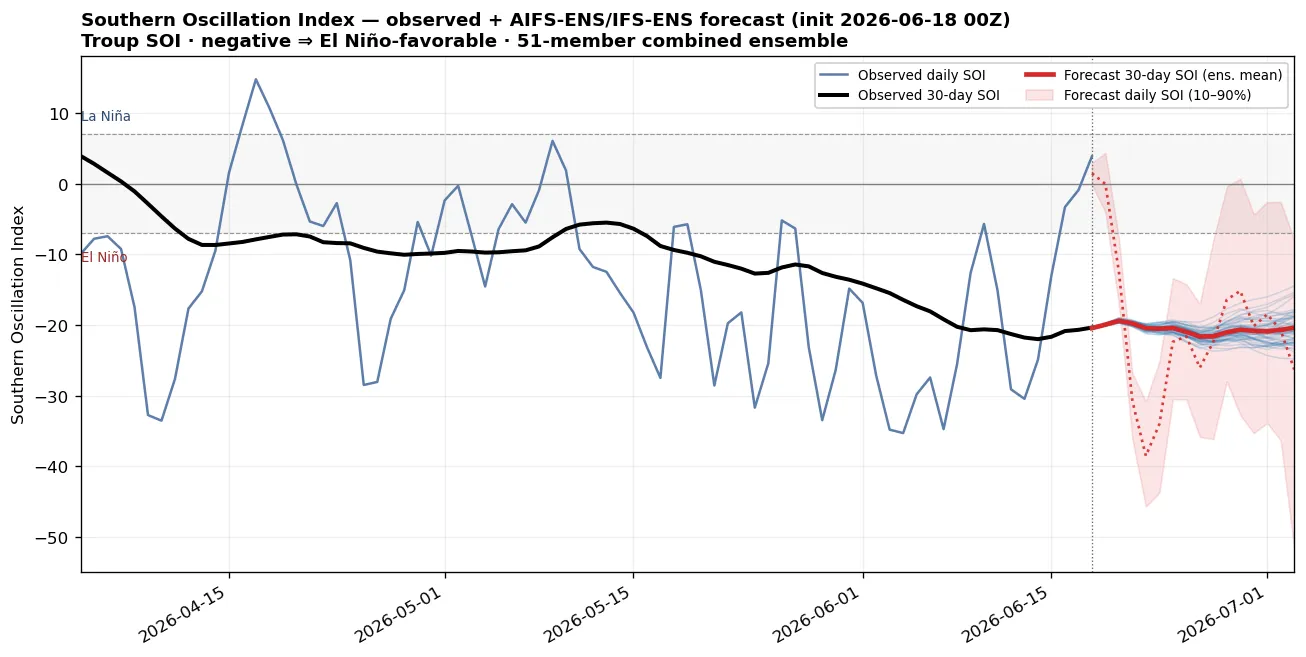
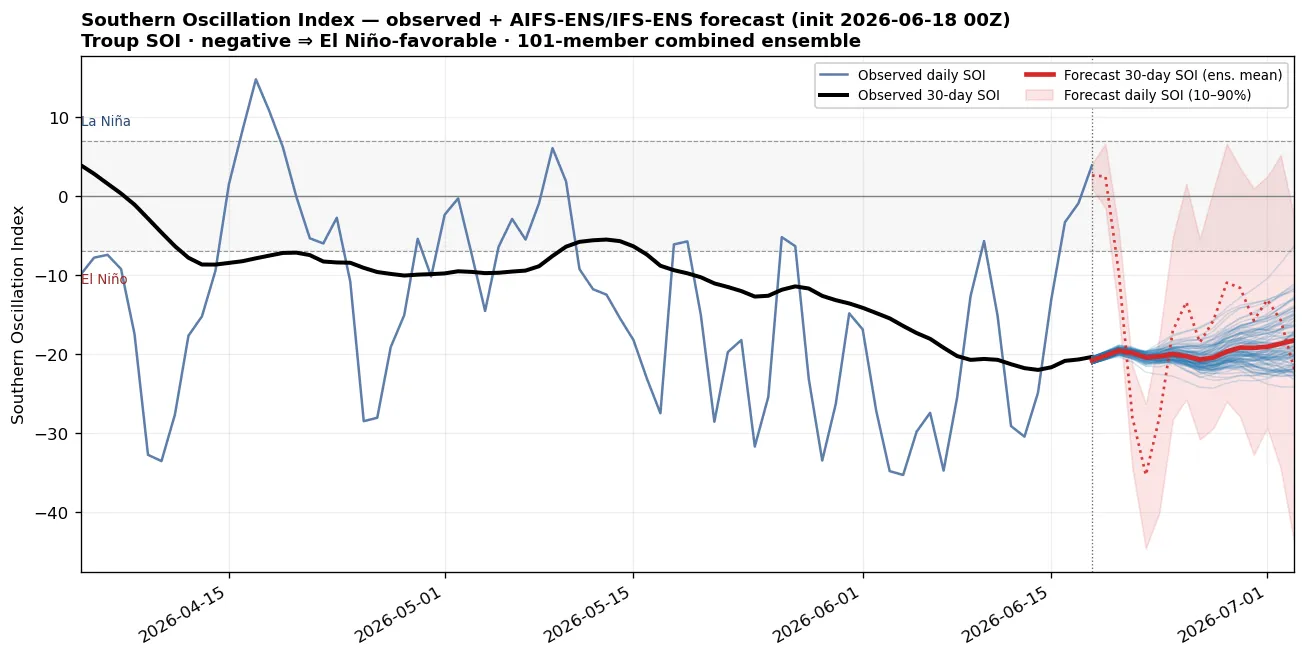
Hovmöller + SOI: backfill IFS-ENS leg for 20260618_00z (rendered AIFS-only on the first pass before IFS published)

diff --git a/enso-analogs.html b/enso-analogs.html
@@ -262,7 +262,7 @@
         <h2>This Event vs. 1997, 2015 &amp; 2023</h2>
         <p>Niño-3.4 evolution (7-day running mean) through each event's development year and the next. Bold lines are <b>RONI</b> &mdash; the relative index (Niño-3.4 minus the 20&deg;S&ndash;20&deg;N tropical-mean anomaly), which removes the rising warming background so events decades apart are comparable; faint dotted lines are the raw <b>ONI</b> for reference. The current event is red. Note how 2015's record ONI shrinks toward 1997 once the background is removed.</p>
       </div>
-      <div class="img-wrap"><img src="assets/sst/events_nino34.webp?v=0e5e12107f0c" alt="Niño-3.4 RONI vs ONI evolution: current event vs 1997/2015/2023" loading="lazy"></div>
+      <div class="img-wrap"><img src="assets/sst/events_nino34.webp?v=12e0d3b5a5fb" alt="Niño-3.4 RONI vs ONI evolution: current event vs 1997/2015/2023" loading="lazy"></div>
       <div class="chart-card-footer"><span class="chart-sources">OISST v2.1 daily &middot; 7-day mean &middot; RONI = Niño-3.4 &minus; 20&deg;S&ndash;20&deg;N mean</span></div>
     </div>
 
@@ -272,7 +272,7 @@
         <h2>El Niño Flavor &mdash; Niño Regions vs. Analogs</h2>
         <p>Relative Niño-1+2 / 3 / 3.4 / 4 anomalies (7-day mean, each minus the 20&deg;S&ndash;20&deg;N tropical mean) at the same calendar day as the latest data, for the current event and the three analogs. Removing the tropical background makes the regions comparable across events; strong eastern (1+2, 3) relative to central (4) marks an East-Pacific-flavored event.</p>
       </div>
-      <div class="img-wrap"><img src="assets/sst/events_bars.webp?v=0e5e12107f0c" alt="Relative Niño-region anomalies, current event vs analogs" loading="lazy"></div>
+      <div class="img-wrap"><img src="assets/sst/events_bars.webp?v=12e0d3b5a5fb" alt="Relative Niño-region anomalies, current event vs analogs" loading="lazy"></div>
       <div class="chart-card-footer"><span class="chart-sources">OISST v2.1 daily &middot; 7-day mean &middot; relative to 20&deg;S&ndash;20&deg;N mean</span></div>
     </div>
 
@@ -282,7 +282,7 @@
         <h2>Matching-Phase SST Anomaly Maps</h2>
         <p>Relative SST anomaly &mdash; the area-weighted global-mean anomaly removed from each map &mdash; for the latest available week vs. the same calendar week in 1997, 2015 and 2023. Stripping the global mean removes the secular warming trend, so the ENSO spatial pattern is comparable across events that sat on very different baselines.</p>
       </div>
-      <div class="img-wrap"><img src="assets/sst/events_maps.webp?v=0e5e12107f0c" alt="Matching-phase relative SST anomaly maps (global-mean removed)" loading="lazy"></div>
+      <div class="img-wrap"><img src="assets/sst/events_maps.webp?v=12e0d3b5a5fb" alt="Matching-phase relative SST anomaly maps (global-mean removed)" loading="lazy"></div>
       <div class="chart-card-footer"><span class="chart-sources">OISST v2.1 daily &middot; 7-day mean &middot; global-mean removed</span></div>
     </div>
 
@@ -292,7 +292,7 @@
         <h2>Subsurface Heat Content vs. Analogs</h2>
         <p>Equatorial Pacific upper-ocean (0&ndash;300 m) temperature anomaly &mdash; a heat-content proxy that leads the surface &mdash; through each event's development year and the next, current (bold red) overlaid on 1997, 2015 and 2023. The subsurface warm reservoir is the fuel for El Ni&ntilde;o; watch whether the current build-up keeps pace with the analogs.</p>
       </div>
-      <div class="img-wrap"><img src="assets/sst/subsurface_events_hc.webp?v=0e5e12107f0c" alt="Equatorial 0–300 m temperature-anomaly evolution: current vs 1997/2015/2023" loading="lazy"></div>
+      <div class="img-wrap"><img src="assets/sst/subsurface_events_hc.webp?v=12e0d3b5a5fb" alt="Equatorial 0–300 m temperature-anomaly evolution: current vs 1997/2015/2023" loading="lazy"></div>
       <div class="chart-card-footer"><span class="chart-sources">NOAA/PMEL TAO/TRITON moorings &middot; anomaly vs 1991&ndash;2020 &middot; coverage varies by year</span></div>
     </div>
 
@@ -302,7 +302,7 @@
         <h2>Subsurface Heat Content vs. Analogs &mdash; De-trended</h2>
         <p>The same heat-content comparison with the 1991&ndash;2020 climate trend removed, so the four events sit on a common baseline. The net 0&ndash;300 m effect is modest &mdash; the subsurface warming and cooling trends largely cancel in the column average &mdash; but it eases the recent events (2023, current) down relative to 1997.</p>
       </div>
-      <div class="img-wrap"><img src="assets/sst/subsurface_events_hc_detrended.webp?v=0e5e12107f0c" alt="Equatorial 0–300 m temperature-anomaly evolution, climate trend removed: current vs 1997/2015/2023" loading="lazy"></div>
+      <div class="img-wrap"><img src="assets/sst/subsurface_events_hc_detrended.webp?v=12e0d3b5a5fb" alt="Equatorial 0–300 m temperature-anomaly evolution, climate trend removed: current vs 1997/2015/2023" loading="lazy"></div>
       <div class="chart-card-footer"><span class="chart-sources">NOAA/PMEL TAO/TRITON moorings &middot; de-trended 1991&ndash;2020 &middot; coverage varies by year</span></div>
     </div>
 
@@ -313,7 +313,7 @@
         <p>Equatorial depth&times;longitude temperature anomaly at the same phase (~the latest data week) of each event. The eastward-deepening warm anomaly along the thermocline is the classic El Ni&ntilde;o subsurface signature; comparing its depth and intensity against 1997/2015/2023 gauges how loaded the ocean is now.</p>
         <p><b>Note:</b> TAO mooring coverage varies by year (triangles mark moorings reporting), so 1997 and 2023 have missing longitudes.</p>
       </div>
-      <div class="img-wrap"><img src="assets/sst/subsurface_events_xsec.webp?v=0e5e12107f0c" alt="Equatorial subsurface temperature-anomaly cross-sections: current vs 1997/2015/2023" loading="lazy"></div>
+      <div class="img-wrap"><img src="assets/sst/subsurface_events_xsec.webp?v=12e0d3b5a5fb" alt="Equatorial subsurface temperature-anomaly cross-sections: current vs 1997/2015/2023" loading="lazy"></div>
       <div class="chart-card-footer"><span class="chart-sources">NOAA/PMEL TAO/TRITON moorings &middot; anomaly vs 1991&ndash;2020 &middot; 14-day mean &middot; coverage varies by year</span></div>
     </div>
 
@@ -324,7 +324,7 @@
         <p>The matching-phase cross-sections with the 1991&ndash;2020 climate trend removed. Because the trend has real depth&times;longitude structure &mdash; west-Pacific subsurface warming, eastern-thermocline cooling &mdash; de-trending reshapes the pattern more here than in the column-mean heat content above.</p>
         <p><b>Note:</b> TAO mooring coverage varies by year (triangles mark moorings reporting), so 1997 and 2023 have missing longitudes.</p>
       </div>
-      <div class="img-wrap"><img src="assets/sst/subsurface_events_xsec_detrended.webp?v=0e5e12107f0c" alt="Equatorial subsurface temperature-anomaly cross-sections, climate trend removed: current vs 1997/2015/2023" loading="lazy"></div>
+      <div class="img-wrap"><img src="assets/sst/subsurface_events_xsec_detrended.webp?v=12e0d3b5a5fb" alt="Equatorial subsurface temperature-anomaly cross-sections, climate trend removed: current vs 1997/2015/2023" loading="lazy"></div>
       <div class="chart-card-footer"><span class="chart-sources">NOAA/PMEL TAO/TRITON moorings &middot; de-trended 1991&ndash;2020 &middot; 14-day mean &middot; coverage varies by year</span></div>
     </div>
 
@@ -334,8 +334,8 @@
         <h2>Low-Level Wind vs. Analogs &mdash; 850 hPa Hovm&ouml;ller</h2>
         <p>Equatorial (5&deg;S&ndash;5&deg;N) 850 hPa zonal wind through the <b>developing year</b> (Jan&rarr;Nov of year 0) of each El Ni&ntilde;o, aligned by calendar so the current event sits beside its analogs at the same phase. Westerly anomalies (red) over the Indian Ocean&ndash;west Pacific push warm water east and sustain a developing event; the historical analogs show those westerlies expanding eastward through the year. Left: detrended anomaly (long-term trend removed). Right: absolute wind (easterly trades vs. westerly bursts). 5-day smoothed.</p>
       </div>
-      <div class="img-wrap"><img src="assets/sst/u850_analogs_anom.webp?v=0e5e12107f0c" alt="850 hPa equatorial zonal-wind detrended-anomaly Hovmöllers: current 2026 vs 1982/1997/2015 developing years" loading="lazy"></div>
-      <div class="img-wrap"><img src="assets/sst/u850_analogs_abs.webp?v=0e5e12107f0c" alt="850 hPa equatorial zonal-wind absolute Hovmöllers: current 2026 vs 1982/1997/2015 developing years" loading="lazy"></div>
+      <div class="img-wrap"><img src="assets/sst/u850_analogs_anom.webp?v=12e0d3b5a5fb" alt="850 hPa equatorial zonal-wind detrended-anomaly Hovmöllers: current 2026 vs 1982/1997/2015 developing years" loading="lazy"></div>
+      <div class="img-wrap"><img src="assets/sst/u850_analogs_abs.webp?v=12e0d3b5a5fb" alt="850 hPa equatorial zonal-wind absolute Hovmöllers: current 2026 vs 1982/1997/2015 developing years" loading="lazy"></div>
       <div class="chart-card-footer"><span class="chart-sources">ERA5 &mdash; WeatherBench2 1.5&deg; (1959&ndash;2023) + ARCO 0.25&deg; (current year) &middot; 5&deg;S&ndash;5&deg;N &middot; detrended vs day-of-year climatology &middot; updated daily</span></div>
     </div>
 
@@ -349,37 +349,37 @@
 
     <div class="chart-card">
       <div class="chart-card-header"><h2>Houston &amp; Dallas</h2></div>
-      <div class="img-wrap"><img src="assets/sst/citytemp/citytemp_houston.webp?v=0e5e12107f0c" alt="Houston daily temperature across super-El-Niño years vs 2026" loading="lazy"></div>
-      <div class="img-wrap"><img src="assets/sst/citytemp/citytemp_anom_houston.webp?v=0e5e12107f0c" alt="Houston detrended temperature anomaly across super-El-Niño years vs 2026" loading="lazy"></div>
-      <div class="img-wrap"><img src="assets/sst/citytemp/citytemp_dallas.webp?v=0e5e12107f0c" alt="Dallas daily temperature across super-El-Niño years vs 2026" loading="lazy"></div>
-      <div class="img-wrap"><img src="assets/sst/citytemp/citytemp_anom_dallas.webp?v=0e5e12107f0c" alt="Dallas detrended temperature anomaly across super-El-Niño years vs 2026" loading="lazy"></div>
+      <div class="img-wrap"><img src="assets/sst/citytemp/citytemp_houston.webp?v=12e0d3b5a5fb" alt="Houston daily temperature across super-El-Niño years vs 2026" loading="lazy"></div>
+      <div class="img-wrap"><img src="assets/sst/citytemp/citytemp_anom_houston.webp?v=12e0d3b5a5fb" alt="Houston detrended temperature anomaly across super-El-Niño years vs 2026" loading="lazy"></div>
+      <div class="img-wrap"><img src="assets/sst/citytemp/citytemp_dallas.webp?v=12e0d3b5a5fb" alt="Dallas daily temperature across super-El-Niño years vs 2026" loading="lazy"></div>
+      <div class="img-wrap"><img src="assets/sst/citytemp/citytemp_anom_dallas.webp?v=12e0d3b5a5fb" alt="Dallas detrended temperature anomaly across super-El-Niño years vs 2026" loading="lazy"></div>
       <div class="chart-card-footer"><span class="chart-sources">IEM ASOS (IAH, DFW) &middot; daily high&ndash;low from hourly obs &middot; anomaly detrended vs trend-adjusted 1973&ndash;present normal</span></div>
     </div>
 
     <div class="chart-card">
       <div class="chart-card-header"><h2>Phoenix &amp; Washington, DC</h2></div>
-      <div class="img-wrap"><img src="assets/sst/citytemp/citytemp_phoenix.webp?v=0e5e12107f0c" alt="Phoenix daily temperature across super-El-Niño years vs 2026" loading="lazy"></div>
-      <div class="img-wrap"><img src="assets/sst/citytemp/citytemp_anom_phoenix.webp?v=0e5e12107f0c" alt="Phoenix detrended temperature anomaly across super-El-Niño years vs 2026" loading="lazy"></div>
-      <div class="img-wrap"><img src="assets/sst/citytemp/citytemp_washington_dc.webp?v=0e5e12107f0c" alt="Washington DC daily temperature across super-El-Niño years vs 2026" loading="lazy"></div>
-      <div class="img-wrap"><img src="assets/sst/citytemp/citytemp_anom_washington_dc.webp?v=0e5e12107f0c" alt="Washington DC detrended temperature anomaly across super-El-Niño years vs 2026" loading="lazy"></div>
+      <div class="img-wrap"><img src="assets/sst/citytemp/citytemp_phoenix.webp?v=12e0d3b5a5fb" alt="Phoenix daily temperature across super-El-Niño years vs 2026" loading="lazy"></div>
+      <div class="img-wrap"><img src="assets/sst/citytemp/citytemp_anom_phoenix.webp?v=12e0d3b5a5fb" alt="Phoenix detrended temperature anomaly across super-El-Niño years vs 2026" loading="lazy"></div>
+      <div class="img-wrap"><img src="assets/sst/citytemp/citytemp_washington_dc.webp?v=12e0d3b5a5fb" alt="Washington DC daily temperature across super-El-Niño years vs 2026" loading="lazy"></div>
+      <div class="img-wrap"><img src="assets/sst/citytemp/citytemp_anom_washington_dc.webp?v=12e0d3b5a5fb" alt="Washington DC detrended temperature anomaly across super-El-Niño years vs 2026" loading="lazy"></div>
       <div class="chart-card-footer"><span class="chart-sources">IEM ASOS (PHX, DCA) &middot; daily high&ndash;low from hourly obs &middot; anomaly detrended vs trend-adjusted 1973&ndash;present normal</span></div>
     </div>
 
     <div class="chart-card">
       <div class="chart-card-header"><h2>New York City &amp; Boston</h2></div>
-      <div class="img-wrap"><img src="assets/sst/citytemp/citytemp_new_york_city.webp?v=0e5e12107f0c" alt="New York City daily temperature across super-El-Niño years vs 2026" loading="lazy"></div>
-      <div class="img-wrap"><img src="assets/sst/citytemp/citytemp_anom_new_york_city.webp?v=0e5e12107f0c" alt="New York City detrended temperature anomaly across super-El-Niño years vs 2026" loading="lazy"></div>
-      <div class="img-wrap"><img src="assets/sst/citytemp/citytemp_boston.webp?v=0e5e12107f0c" alt="Boston daily temperature across super-El-Niño years vs 2026" loading="lazy"></div>
-      <div class="img-wrap"><img src="assets/sst/citytemp/citytemp_anom_boston.webp?v=0e5e12107f0c" alt="Boston detrended temperature anomaly across super-El-Niño years vs 2026" loading="lazy"></div>
+      <div class="img-wrap"><img src="assets/sst/citytemp/citytemp_new_york_city.webp?v=12e0d3b5a5fb" alt="New York City daily temperature across super-El-Niño years vs 2026" loading="lazy"></div>
+      <div class="img-wrap"><img src="assets/sst/citytemp/citytemp_anom_new_york_city.webp?v=12e0d3b5a5fb" alt="New York City detrended temperature anomaly across super-El-Niño years vs 2026" loading="lazy"></div>
+      <div class="img-wrap"><img src="assets/sst/citytemp/citytemp_boston.webp?v=12e0d3b5a5fb" alt="Boston daily temperature across super-El-Niño years vs 2026" loading="lazy"></div>
+      <div class="img-wrap"><img src="assets/sst/citytemp/citytemp_anom_boston.webp?v=12e0d3b5a5fb" alt="Boston detrended temperature anomaly across super-El-Niño years vs 2026" loading="lazy"></div>
       <div class="chart-card-footer"><span class="chart-sources">IEM ASOS (LGA, BOS) &middot; daily high&ndash;low from hourly obs &middot; anomaly detrended vs trend-adjusted 1973&ndash;present normal</span></div>
     </div>
 
     <div class="chart-card">
       <div class="chart-card-header"><h2>Portland &amp; Seattle</h2></div>
-      <div class="img-wrap"><img src="assets/sst/citytemp/citytemp_portland_or.webp?v=0e5e12107f0c" alt="Portland OR daily temperature across super-El-Niño years vs 2026" loading="lazy"></div>
-      <div class="img-wrap"><img src="assets/sst/citytemp/citytemp_anom_portland_or.webp?v=0e5e12107f0c" alt="Portland OR detrended temperature anomaly across super-El-Niño years vs 2026" loading="lazy"></div>
-      <div class="img-wrap"><img src="assets/sst/citytemp/citytemp_seattle.webp?v=0e5e12107f0c" alt="Seattle daily temperature across super-El-Niño years vs 2026" loading="lazy"></div>
-      <div class="img-wrap"><img src="assets/sst/citytemp/citytemp_anom_seattle.webp?v=0e5e12107f0c" alt="Seattle detrended temperature anomaly across super-El-Niño years vs 2026" loading="lazy"></div>
+      <div class="img-wrap"><img src="assets/sst/citytemp/citytemp_portland_or.webp?v=12e0d3b5a5fb" alt="Portland OR daily temperature across super-El-Niño years vs 2026" loading="lazy"></div>
+      <div class="img-wrap"><img src="assets/sst/citytemp/citytemp_anom_portland_or.webp?v=12e0d3b5a5fb" alt="Portland OR detrended temperature anomaly across super-El-Niño years vs 2026" loading="lazy"></div>
+      <div class="img-wrap"><img src="assets/sst/citytemp/citytemp_seattle.webp?v=12e0d3b5a5fb" alt="Seattle daily temperature across super-El-Niño years vs 2026" loading="lazy"></div>
+      <div class="img-wrap"><img src="assets/sst/citytemp/citytemp_anom_seattle.webp?v=12e0d3b5a5fb" alt="Seattle detrended temperature anomaly across super-El-Niño years vs 2026" loading="lazy"></div>
       <div class="chart-card-footer"><span class="chart-sources">IEM ASOS (PDX, SEA) &middot; daily high&ndash;low from hourly obs &middot; anomaly detrended vs trend-adjusted 1973&ndash;present normal</span></div>
     </div>
 

diff --git a/enso-atmosphere.html b/enso-atmosphere.html
@@ -323,7 +323,7 @@
         <p>Forecast 10 m zonal-wind anomaly (5&deg;S&ndash;5&deg;N), longitude &times; forecast day, from the AIFS-ENS (AI) and ECMWF IFS-ENS (physics) ensemble means vs. the ERA5 1991&ndash;2020 climatology.</p>
         <p><b>What to look for:</b> Westerly (red) anomalies along the equator push warm water eastward and favor El Ni&ntilde;o development; easterly (blue) anomalies favor La Ni&ntilde;a. Agreement between the AI and physics ensembles raises confidence.</p>
       </div>
-      <div class="img-wrap"><img src="assets/sst/eq_wind_hovmoller.webp?v=0e5e12107f0c" alt="Equatorial Pacific 10 m zonal-wind anomaly Hovmöller forecast (AIFS-ENS and IFS-ENS)" loading="lazy"></div>
+      <div class="img-wrap"><img src="assets/sst/eq_wind_hovmoller.webp?v=12e0d3b5a5fb" alt="Equatorial Pacific 10 m zonal-wind anomaly Hovmöller forecast (AIFS-ENS and IFS-ENS)" loading="lazy"></div>
       <div class="chart-card-footer"><span class="chart-sources">ECMWF AIFS-ENS &amp; IFS-ENS (open data) &middot; anomaly vs ERA5 1991&ndash;2020 &middot; updated each 00/12Z cycle</span></div>
     </div>
 
@@ -347,7 +347,7 @@
         <p><b>How to read it:</b> <i>top</i> &mdash; this year's observed AAM (black) and the 15-day forecast (red) on the climatological annual cycle. The hemispheres are strongly out of phase (each peaks in its own winter), so much of the absolute rise/fall is just the season. <i>Bottom</i> &mdash; the anomaly (departure from the 1991&ndash;2020 normal), which removes the seasonal cycle, with a &ldquo;% of climatology&rdquo; axis.</p>
         <p><b>Why it matters for ENSO:</b> El&nbsp;Ni&ntilde;o shifts tropical convection east, strengthens the subtropical jets and weakens the trade winds &mdash; so the atmosphere holds <b>more</b> westerly momentum. AAM also ties to the MJO / Global Wind Oscillation and to <b>length of day</b> (more atmospheric momentum &rarr; the solid Earth spins fractionally slower).</p>
       </div>
-      <div class="img-wrap"><img src="assets/sst/aam.webp?v=0e5e12107f0c" alt="Global and hemispheric atmospheric angular momentum: observed + AIFS-ENS forecast, absolute and anomaly" loading="lazy"></div>
+      <div class="img-wrap"><img src="assets/sst/aam.webp?v=12e0d3b5a5fb" alt="Global and hemispheric atmospheric angular momentum: observed + AIFS-ENS forecast, absolute and anomaly" loading="lazy"></div>
       <div class="chart-card-footer"><span class="chart-sources">Forecast: ECMWF AIFS-ENS (open data, CC BY 4.0) &middot; climatology &amp; this-year observed: ERA5 (Copernicus C3S / ECMWF) &middot; updated daily</span></div>
     </div>
 
@@ -356,7 +356,7 @@
       <div class="chart-card-header">
         <h2>AAM Forecast Trend (run-to-run)</h2>
       </div>
-      <div class="img-wrap"><img src="assets/sst/aam_trend.webp?v=0e5e12107f0c" alt="Run-to-run trend of AIFS-ENS ensemble-mean AAM anomaly forecasts, global and hemispheric" loading="lazy"></div>
+      <div class="img-wrap"><img src="assets/sst/aam_trend.webp?v=12e0d3b5a5fb" alt="Run-to-run trend of AIFS-ENS ensemble-mean AAM anomaly forecasts, global and hemispheric" loading="lazy"></div>
       <div class="chart-card-footer"><span class="chart-sources">ECMWF AIFS-ENS (open data, CC BY 4.0) &middot; anomaly vs ERA5 1991&ndash;2020 (Copernicus C3S) &middot; archived each cycle</span></div>
     </div>
 
@@ -371,10 +371,10 @@
       </div>
       <iframe class="anim-embed torque" src="sst_anim.html?embed=1&amp;manifest=torque_manifest.json&amp;region=torque"
               title="AAM surface-torque anomaly animation (friction + mountain) over the AIFS-ENS forecast" loading="lazy"></iframe>
-      <div class="img-wrap"><img src="assets/sst/torque_timeseries.webp?v=0e5e12107f0c" alt="Hemispheric AAM torque budget time series (friction, mountain, sum) for NH and SH" loading="lazy"></div>
-      <div class="img-wrap"><img src="assets/sst/torque_ranges.webp?v=0e5e12107f0c" alt="Mountain-torque anomaly broken down by range (Himalaya, Rockies, Andes, Greenland, Antarctica, Alps)" loading="lazy"></div>
-      <div class="img-wrap"><img src="assets/sst/torque_seasonal.webp?v=0e5e12107f0c" alt="Seasonal cycle of the three AAM surface-torque terms (friction, mountain, GWD) by latitude, ERA5 1991-2020" loading="lazy"></div>
-      <div class="img-wrap"><img src="assets/sst/torque_seasonal_ts.webp?v=0e5e12107f0c" alt="Seasonal cycle of the integrated AAM torque terms (friction, mountain, GWD, sum) for Global/NH/SH, ERA5 1991-2020" loading="lazy"></div>
+      <div class="img-wrap"><img src="assets/sst/torque_timeseries.webp?v=12e0d3b5a5fb" alt="Hemispheric AAM torque budget time series (friction, mountain, sum) for NH and SH" loading="lazy"></div>
+      <div class="img-wrap"><img src="assets/sst/torque_ranges.webp?v=12e0d3b5a5fb" alt="Mountain-torque anomaly broken down by range (Himalaya, Rockies, Andes, Greenland, Antarctica, Alps)" loading="lazy"></div>
+      <div class="img-wrap"><img src="assets/sst/torque_seasonal.webp?v=12e0d3b5a5fb" alt="Seasonal cycle of the three AAM surface-torque terms (friction, mountain, GWD) by latitude, ERA5 1991-2020" loading="lazy"></div>
+      <div class="img-wrap"><img src="assets/sst/torque_seasonal_ts.webp?v=12e0d3b5a5fb" alt="Seasonal cycle of the integrated AAM torque terms (friction, mountain, GWD, sum) for Global/NH/SH, ERA5 1991-2020" loading="lazy"></div>
       <div class="chart-card-footer"><span class="chart-sources">ECMWF AIFS-ENS surface pressure (open data, CC BY 4.0) &middot; ERA5 orography + 1991–2020 torque climatology (Copernicus C3S, seasonal-cycle panel) &middot; daily means &middot; updated daily</span></div>
     </div>
 

diff --git a/sst.html b/sst.html
@@ -324,7 +324,7 @@
         <p><b>How to read it:</b> Red bars (positive) lean El Ni&ntilde;o, blue bars (negative) lean La Ni&ntilde;a; the dashed lines mark the &plusmn;0.5&deg;C guides. Following the <b>NOAA-CPC / ECMWF</b> method, the relative anomaly is rescaled by a per-calendar-month factor <b>s = &sigma;(ONI) / &sigma;(relative)</b> &mdash; which restores the variance lost by removing the tropical mean, so RONI stays in <b>&deg;C and is directly comparable to the conventional ONI</b> (same &plusmn;0.5&deg;C thresholds). That factor has a strong seasonal cycle &mdash; largest in spring (~1.3, when removing the tropical background strips the most signal) and near 1 in mid-summer. Computed directly from NOAA OISST v2.1 (1991&ndash;2020 base).</p>
       </div>
       <div class="img-wrap">
-        <img src="assets/sst/roni.webp?v=0e5e12107f0c"
+        <img src="assets/sst/roni.webp?v=12e0d3b5a5fb"
              alt="Relative Oceanic Niño Index time series" loading="lazy">
       </div>
       <div class="chart-card-footer">
@@ -341,7 +341,7 @@
         <p><b>What to look for:</b> When the red (Ni&ntilde;o-3.4) and green (tropical-mean) lines move together, the blue relative line stays flat &mdash; that's background warming, not ENSO. The blue line separating from zero is the genuine ENSO signal.</p>
       </div>
       <div class="img-wrap">
-        <img src="assets/sst/daily_indices.webp?v=0e5e12107f0c"
+        <img src="assets/sst/daily_indices.webp?v=12e0d3b5a5fb"
              alt="Daily Niño-3.4, tropical-mean, and relative SST indices" loading="lazy">
       </div>
       <div class="chart-card-footer">
@@ -358,22 +358,22 @@
         <p><b>How to read it:</b> The grey steps are the official bimonthly MEI.v2; the red line is our daily estimate, which leads the official value by roughly five weeks. The shaded band is the &plusmn;0.30 leave-one-year-out cross-validation error &mdash; the honest out-of-sample skill (the fit reproduces MEI.v2 at R&nbsp;=&nbsp;0.94). <b>Caveat:</b> the model is SST-weighted, so during a fast <i>SST-led</i> transition it can run ahead of MEI's slower atmospheric components &mdash; read a rapidly-rising live value as direction-and-timing rather than exact magnitude.</p>
       </div>
       <div class="img-wrap">
-        <img src="assets/sst/mei/mei_nowcast.webp?v=202606180843e5e12107f0c"
+        <img src="assets/sst/mei/mei_nowcast.webp?v=12e0d3b5a5fb"
              alt="Daily nowcast of the Multivariate ENSO Index version 2" loading="lazy">
       </div>
       <div class="img-wrap">
         <p class="img-label">Onset-year analogs &mdash; is the current year tracking the big El Ni&ntilde;os?</p>
-        <img src="assets/sst/mei/mei_analogs.webp?v=0e5e12107f0c"
+        <img src="assets/sst/mei/mei_analogs.webp?v=12e0d3b5a5fb"
              alt="MEI.v2 onset-year analogs: 1982, 1997, 2015, 2023 vs the current nowcast" loading="lazy">
       </div>
       <div class="img-wrap">
         <p class="img-label">Full record since 1980</p>
-        <img src="assets/sst/mei/mei_history.webp?v=0e5e12107f0c"
+        <img src="assets/sst/mei/mei_history.webp?v=12e0d3b5a5fb"
              alt="Full Multivariate ENSO Index v2 record since 1980 with the live nowcast tail" loading="lazy">
       </div>
       <div class="img-wrap">
         <p class="img-label">Out-of-sample skill &mdash; the 2015&ndash;16 El Ni&ntilde;o</p>
-        <img src="assets/sst/mei/mei_validation.webp?v=202606180843e5e12107f0c"
+        <img src="assets/sst/mei/mei_validation.webp?v=12e0d3b5a5fb"
              alt="Validation of the MEI.v2 nowcast over the 2015-16 El Niño" loading="lazy">
       </div>
       <div class="chart-card-footer">

diff --git a/enso-forecasts.html b/enso-forecasts.html
@@ -263,7 +263,7 @@
         <p>Ni&ntilde;o-3.4 SST-anomaly forecast plume from the GEM-NEMO component of Environment Canada's CanSIPS seasonal system (ensemble members 1&ndash;20), out ~11 months. <b>Traditional</b> (left) is the Ni&ntilde;o-3.4 anomaly vs the model's own 1991&ndash;2020 hindcast climatology; <b>relative</b> (right) subtracts the 20&deg;S&ndash;20&deg;N tropical-mean anomaly (RONI-style). Using the model's hindcast climatology removes its drift/bias.</p>
         <p>Bold red is the current issue's ensemble mean (thin red = members); dashed grey is <b>last month's</b> forecast (with its 10&ndash;90% spread) &mdash; where they overlap you can see how the outlook is trending month-to-month.</p>
       </div>
-      <div class="img-wrap"><img src="assets/sst/cansips_nino34.webp?v=0e5e12107f0c" alt="CanSIPS GEM-NEMO Niño-3.4 forecast plume (traditional + relative), current vs previous issue" loading="lazy"></div>
+      <div class="img-wrap"><img src="assets/sst/cansips_nino34.webp?v=12e0d3b5a5fb" alt="CanSIPS GEM-NEMO Niño-3.4 forecast plume (traditional + relative), current vs previous issue" loading="lazy"></div>
       <div class="chart-card-footer"><span class="chart-sources">ECCC CanSIPS GEM-NEMO (datamart) &middot; anomaly vs 1991&ndash;2020 model hindcast &middot; updated monthly</span></div>
     </div>
 
@@ -274,7 +274,7 @@
         <p>The Troup SOI (the standardized Tahiti&minus;Darwin sea-level-pressure difference) tracks the atmospheric side of ENSO. Observed values are from LongPaddock (Queensland Govt / BoM); the forecast is the Tahiti&minus;Darwin MSL from the combined AIFS-ENS + IFS-ENS ensemble (~100 members), bias-corrected to the recent observed level. Bold lines are the 30-day running SOI; the faint daily series and shaded 10&ndash;90% band show the noisier day-to-day spread.</p>
         <p><b>How to read it:</b> Sustained <b>negative</b> SOI (below &minus;7) is El Ni&ntilde;o-favorable; sustained <b>positive</b> (above +7) is La Ni&ntilde;a-favorable. A forecast that holds the 30-day SOI deep negative reinforces an El Ni&ntilde;o signal.</p>
       </div>
-      <div class="img-wrap"><img src="assets/sst/soi_forecast.webp?v=0e5e12107f0c" alt="Southern Oscillation Index: observed (LongPaddock/BoM) plus AIFS-ENS/IFS-ENS forecast" loading="lazy"></div>
+      <div class="img-wrap"><img src="assets/sst/soi_forecast.webp?v=12e0d3b5a5fb" alt="Southern Oscillation Index: observed (LongPaddock/BoM) plus AIFS-ENS/IFS-ENS forecast" loading="lazy"></div>
       <div class="chart-card-footer"><span class="chart-sources">LongPaddock daily SOI (BoM, 1933&ndash;1992 base) &middot; forecast: ECMWF AIFS-ENS + IFS-ENS MSL &middot; updated each 00/12Z cycle</span></div>
     </div>
 
